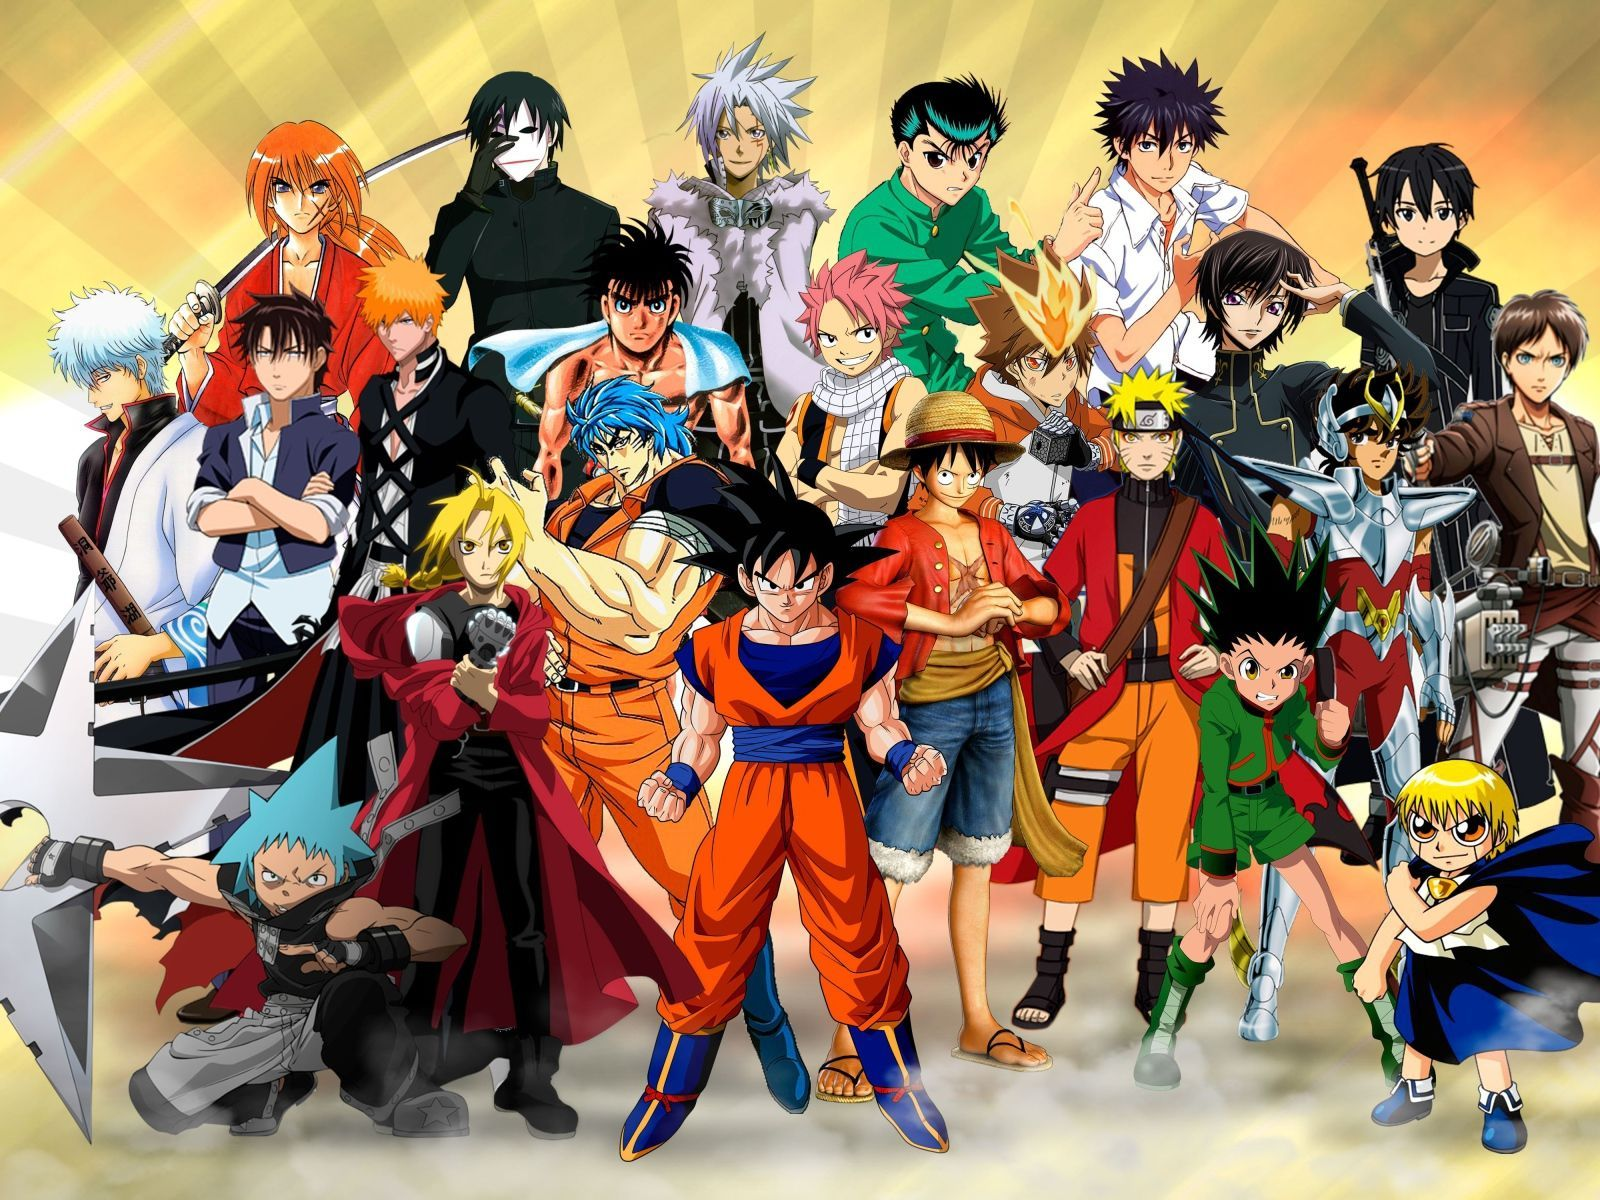
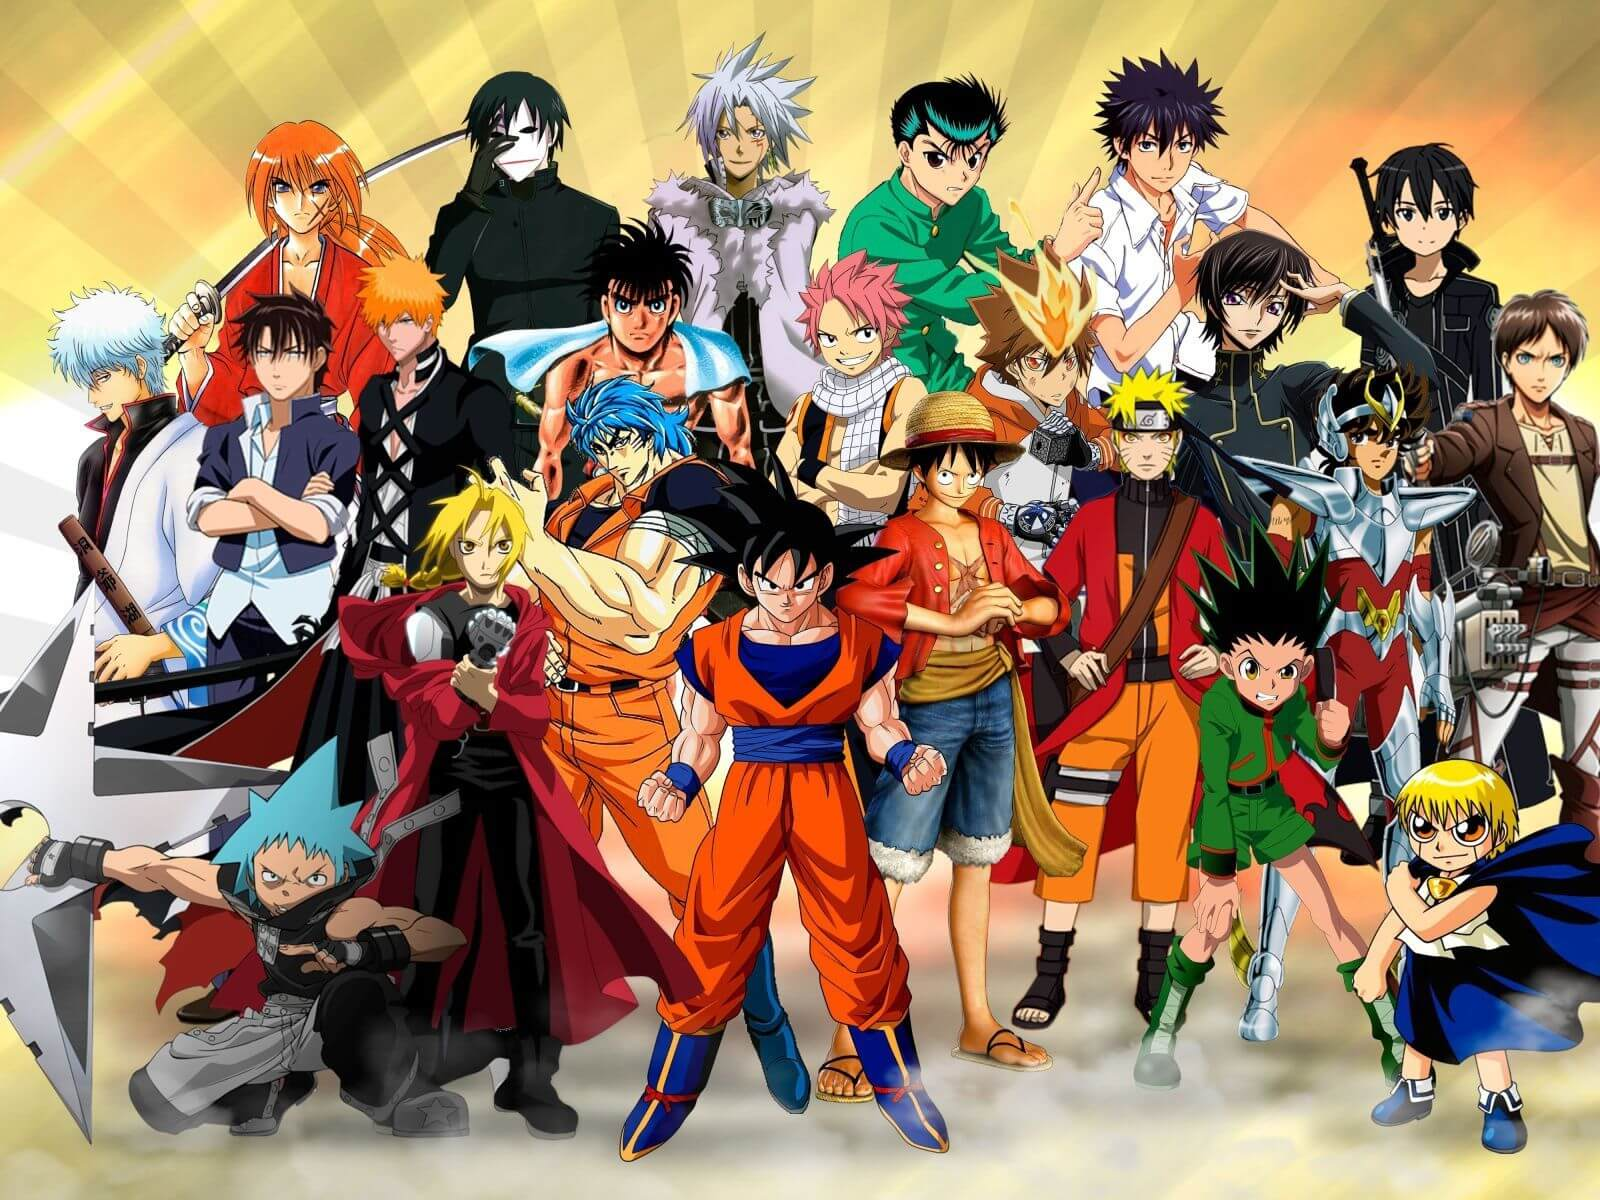
edit and compress imgs

diff --git a/client/src/pages/Landing.js b/client/src/pages/Landing.js
@@ -2,7 +2,6 @@ import goku from "../assets/images/goku.png";
 import aot from "../assets/images/aot.png";
 import lucy from "../assets/images/lucy.png";
 import narutoRun from "../assets/images/narutoRun.gif";
-import leviClean from "../assets/images/leviClean.gif";
 import { Logo } from "../Components";
 import { Link } from "react-router-dom";
 import styled from "styled-components";
@@ -69,8 +68,12 @@ const Landing = () => {
               </div>
             </Slide>
           </div>
-          <img src={narutoRun} alt="anime character" className="img naruto" />
-          <img src={leviClean} alt="anime character" className="img levi" />
+          <img
+            src={narutoRun}
+            loading="lazy"
+            alt="anime character"
+            className="img naruto"
+          />
           <Fade>
             <img src={goku} alt="anime character" className="img main-img" />
           </Fade>
@@ -118,7 +121,12 @@ const Landing = () => {
         </div>
         <div className="container page">
           <Fade>
-            <img src={aot} alt="anime character" className="img main-img" />
+            <img
+              src={aot}
+              alt="anime character"
+              loading="lazy"
+              className="img main-img"
+            />
           </Fade>
           <div>
             <Slide right>
@@ -195,7 +203,12 @@ const Landing = () => {
             </Slide>
           </div>
           <Fade>
-            <img src={lucy} alt="anime character" className="img main-img" />
+            <img
+              src={lucy}
+              alt="anime character"
+              loading="lazy"
+              className="img main-img"
+            />
           </Fade>
         </div>
       </Wrapper>
@@ -213,30 +226,6 @@ const Wrapper = styled.main`
     animation-iteration-count: infinite;
     animation-timing-function: linear;
     top: 94%;
-  }
-
-  .levi {
-    width: 100px;
-    right: 3%;
-    position: absolute;
-    animation-name: appear;
-    animation-duration: 1s;
-    animation-iteration-count: 1;
-    animation-timing-function: linear;
-    /* animation-delay: 5s; */
-    top: 3%;
-    display: block;
-  }
-
-  @keyframes appear {
-    from {
-      display: block;
-      opacity: 1;
-    }
-    to {
-      display: block;
-      opacity: 0;
-    }
   }
 
   @keyframes run {
@@ -317,7 +306,6 @@ const Wrapper = styled.main`
   }
   .main-img {
     display: none;
-    height: fit-content;
   }
   @media (min-width: 992px) {
     .page {
@@ -327,6 +315,8 @@ const Wrapper = styled.main`
     }
     .main-img {
       display: block;
+      height: max-content;
+      overflow: visible;
     }
   }
 `;

diff --git a/client/public/index.html b/client/public/index.html
@@ -6,8 +6,8 @@
     <meta name="viewport" content="width=device-width, initial-scale=1" />
     <meta name="theme-color" content="#000000" />
     <meta
-      name="Job tracker application"
-      content="A job tracker applciation made by Zach Stone"
+      name="Anime tracker application"
+      content="A anime tracker applciation made by Zach Stone"
     />
     <link rel="apple-touch-icon" href="%PUBLIC_URL%/logo192.png" />
     <meta name="image" content="%PUBLIC_URL%/thumb1.png" />
@@ -15,25 +15,25 @@
     <title>HAKU</title>
     <meta
       name="description"
-      content="A job tracker applciation made by Zach Stone"
+      content="A anime tracker applciation made by Zach Stone"
     />
 
     <!-- Google / Search Engine Tags -->
     <meta itemprop="name" content="HAKU" />
     <meta
       itemprop="description"
-      content="A job tracker applciation made by Zach Stone"
+      content="A anime tracker applciation made by Zach Stone"
     />
     <meta itemprop="image" content="%PUBLIC_URL%/thumb1.png" />
     <meta name="image" property="og:image" content="%PUBLIC_URL%/thumb1.png" />
 
     <!-- Facebook Meta Tags -->
-    <meta property="og:url" content="http://www.hakujobs.com" />
+    <meta property="og:url" content="http://www.hakuanimes.com" />
     <meta property="og:type" content="website" />
     <meta property="og:title" content="HAKU" />
     <meta
       property="og:description"
-      content="A job tracker applciation made by Zach Stone"
+      content="A anime tracker applciation made by Zach Stone"
     />
     <meta property="og:image" content="%PUBLIC_URL%/thumb1.png" />
 
@@ -42,7 +42,7 @@
     <meta name="twitter:title" content="HAKU" />
     <meta
       name="twitter:description"
-      content="A job tracker applciation made by Zach Stone"
+      content="A anime tracker applciation made by Zach Stone"
     />
     <meta name="twitter:image" content="%PUBLIC_URL%/thumb1.png" />
 

diff --git a/client/src/pages/Dashboard/Profile.js b/client/src/pages/Dashboard/Profile.js
@@ -3,6 +3,7 @@ import { FormRow, FormRowSelect } from "../../Components";
 import { Alert } from "../../Components";
 import { useAppContext } from "../../context/appContext";
 import styled from "styled-components";
+import pokemon from "../../assets/images/pokemon.png";
 
 const Profile = () => {
   const {
@@ -78,6 +79,7 @@ const Profile = () => {
             {isLoading ? "Please Wait..." : "save changes"}
           </button>
         </div>
+        <img src={pokemon} alt="pokemon" className="pokemon" />
       </form>
       <button className="btn btn-danger" onClick={() => handleDelete()}>
         {" "}
@@ -138,6 +140,12 @@ const Wrapper = styled.section`
   .clear-btn:hover {
     background: var(--black);
   }
+
+  .pokemon {
+    display: none;
+    width: 200px;
+    height: auto;
+  }
   @media (min-width: 992px) {
     .form-center {
       grid-template-columns: 1fr 1fr;
@@ -146,6 +154,12 @@ const Wrapper = styled.section`
     }
     .btn-container {
       margin-top: 0;
+    }
+    .pokemon {
+      display: block;
+      position: relative;
+      left: 75%;
+      top: -2rem;
     }
   }
   @media (min-width: 1120px) {

diff --git a/client/src/pages/Error.js b/client/src/pages/Error.js
@@ -1,12 +1,11 @@
 import { Link } from "react-router-dom";
-import img from "../assets/images/not-found.svg";
+import img from "../assets/images/allanime.jpg";
 import styled from "styled-components";
 
 const Error = () => {
   return (
     <Wrapper className="full-page">
-      <div>
-        <img src={img} alt="not found" />
+      <div className="error-div">
         <h3>Ohh! page not found</h3>
         <p>We can't seem to find the page you're looking for</p>
         <Link to="/my-animes">back home</Link>
@@ -17,14 +16,20 @@ const Error = () => {
 
 const Wrapper = styled.main`
   text-align: center;
-  img {
-    max-width: 600px;
-    display: block;
-    margin-bottom: 2rem;
-  }
   display: flex;
   align-items: center;
   justify-content: center;
+  background-image: url(${img});
+  background-size: cover;
+  background-position: center;
+  height: 100vh;
+  // darken image
+  background-color: rgba(0, 0, 0, 0.5);
+  .error-div {
+    background-color: var(--white);
+    padding: 2rem;
+    opacity: 0.9;
+  }
   h3 {
     margin-bottom: 0.5rem;
   }

diff --git a/client/src/pages/RegisterDemo.js b/client/src/pages/RegisterDemo.js
@@ -54,7 +54,7 @@ const Register = () => {
 
   useEffect(() => {
     onSubmit();
-  });
+  }, []);
 
   return (
     <Wrapper className="full-page">
